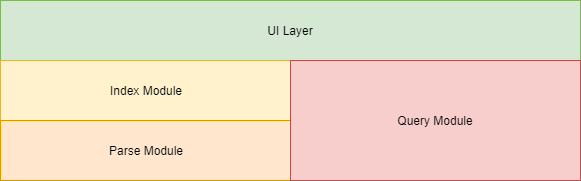
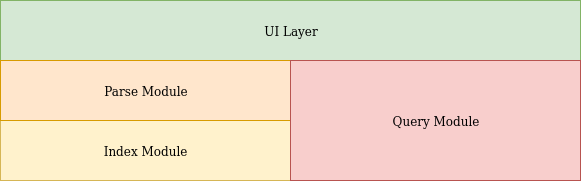
finished arcitecture doument

diff --git a/doc/Architecture.md b/doc/Architecture.md
@@ -1,4 +1,4 @@
-# Scobo Engine Architecture
+# Scobo-Engine Architecture
 
 Scobo can be divided into four modules - three core modules and a UI modules, these modules have a mostly hierarchical relationship and thus we will look at them as layers.
 
@@ -8,9 +8,9 @@ The core modules are **Parse**, **Index**, **Query**, where the first two module
 
 ## Parse Module
 
-The Parse module receives the path to the corpus as input and is responsible for creating all the terms and their statistics that will be used later for indexing and for Querying.
+The Parse module receives the path to the corpus as input and is responsible for creating all document to termList maps that will later be used for indexing.
 
-The Parse module is divided into two main parts, the first is the ReadFile submodule that is responsible for asynchronously taking multiple files from the corpus and splitting them up into documents these documents are then given to the DocumentParse submodule that takes a document and updates all the terms appearing in it and creates new terms accordingly.
+The Parse module is divided into two main parts, the first is the ReadFile submodule that is responsible for asynchronously taking multiple files from the corpus and splitting them up into documents these documents are then sent to the DocumentParse submodule that takes a document and finds all the terms appearing in it and creates `<document, termList>` mappings. (below is an abstract representation of the process)
 
 ![](diagrams/Parse Module.png)
 
@@ -18,8 +18,23 @@ The Parse module is divided into two main parts, the first is the ReadFile submo
 
 ## Index Module
 
-We receive a `<Document, TermList>` pair, we put the pair into a document buffer that will hold up to some k of these pairs, once there are k pairs in the buffer, we dispatch k tasks to the task manager to invert these documents.
+The Index module receives the mappings created by the Parse module and  converts them into an inverted index mapping terms to a list of documents they appear in, this process is done in two phases:
 
-The inverters each have a `<Document, TermList>` they iterate the terms, if the term is in the dictionary then  we load the corresponding posting file and add the new document to the list, for all the terms that do not appear in the Dictionary we construct a new posting file and put all the new terms in it.
-This approach grants the guarantee of at most T/k posting files, T being the number of terms in the corpus later if we find that there are abnormally small posting files they can be merged, additionally a small posting file could be wait in memory for another small file to be created and they would be merged immediately.
+* **Invert Phase**: first a batch of documents is taken from the parser and then is inverted into into term -> document mappings and then those mappings are written into a single posting file.
+* **Merge Phase**: after all the documents have been inverted they are all merged into a single
+   inverted file where each line is a term -> documents mapping
 
+### Invert Phase
+
+The invert phase starts once the parser is finished with the first document, the document is inserted into the document buffer, once the document buffer fills up it sends all of its documents to be inverted and then continues collecting new documents.
+
+When a group of document arrives to be inverted, they are converted from `<document, termList>`mappings into `<term, documentList>` mappings and then are sent to be written into a new posting file. In the process of inverting the the documents a dictionary and a document map are created, 
+the dictionary holds mappings from terms to their statistics and a pointer to the terms posting (is null at this stage), the document map holds mappings from document ids (generated by the mapper) to the documents data, such as document name, max term frequency and length.
+
+The mappings are written to a file sorted alphabetically by the term string, such that each mapping is written in a new line with its document list. (below is an abstract representation of the process)
+
+![invert phase](/home/shoham/Dev/Scobo-Engine/doc/diagrams/invert phase.png)
+
+### Merge Phase
+
+When all documents have been written into posting files, the indexer initiates a merge, during the merge all the posting files are read concurrently line by line. In each iteration we check to see which is the alphabetically minimal term in all the lines, then we merge all the lines containing said term and write the merged line into the inverted file, at this point the dictionary pointer is updated to point to the new line written to the inverted file.
